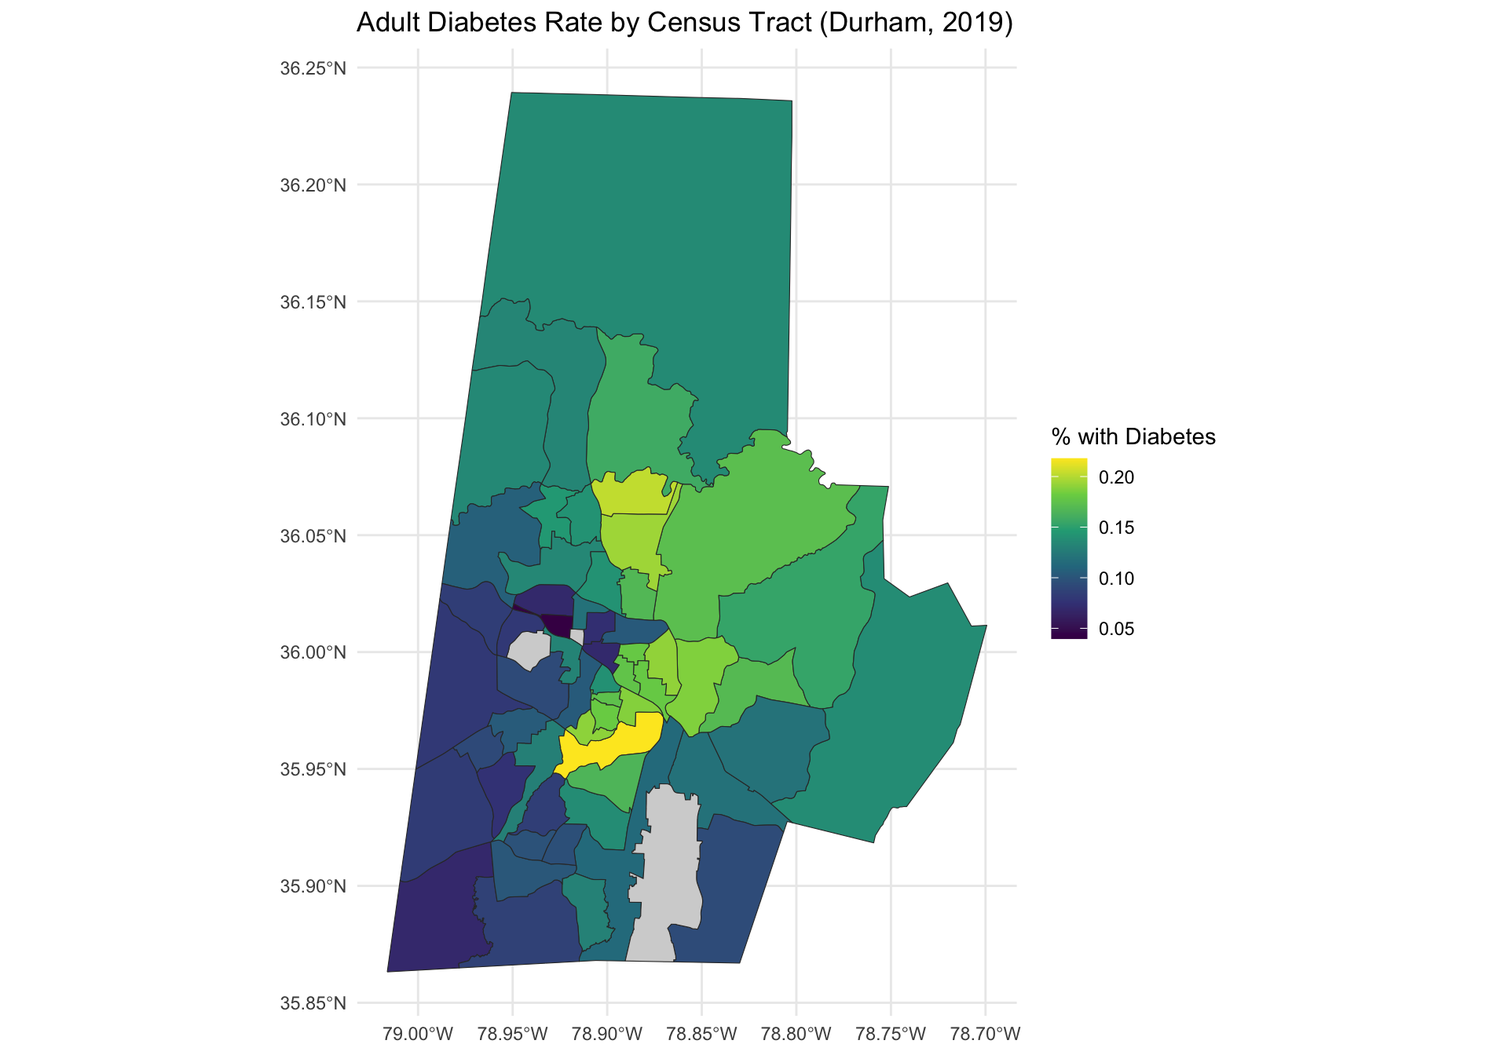
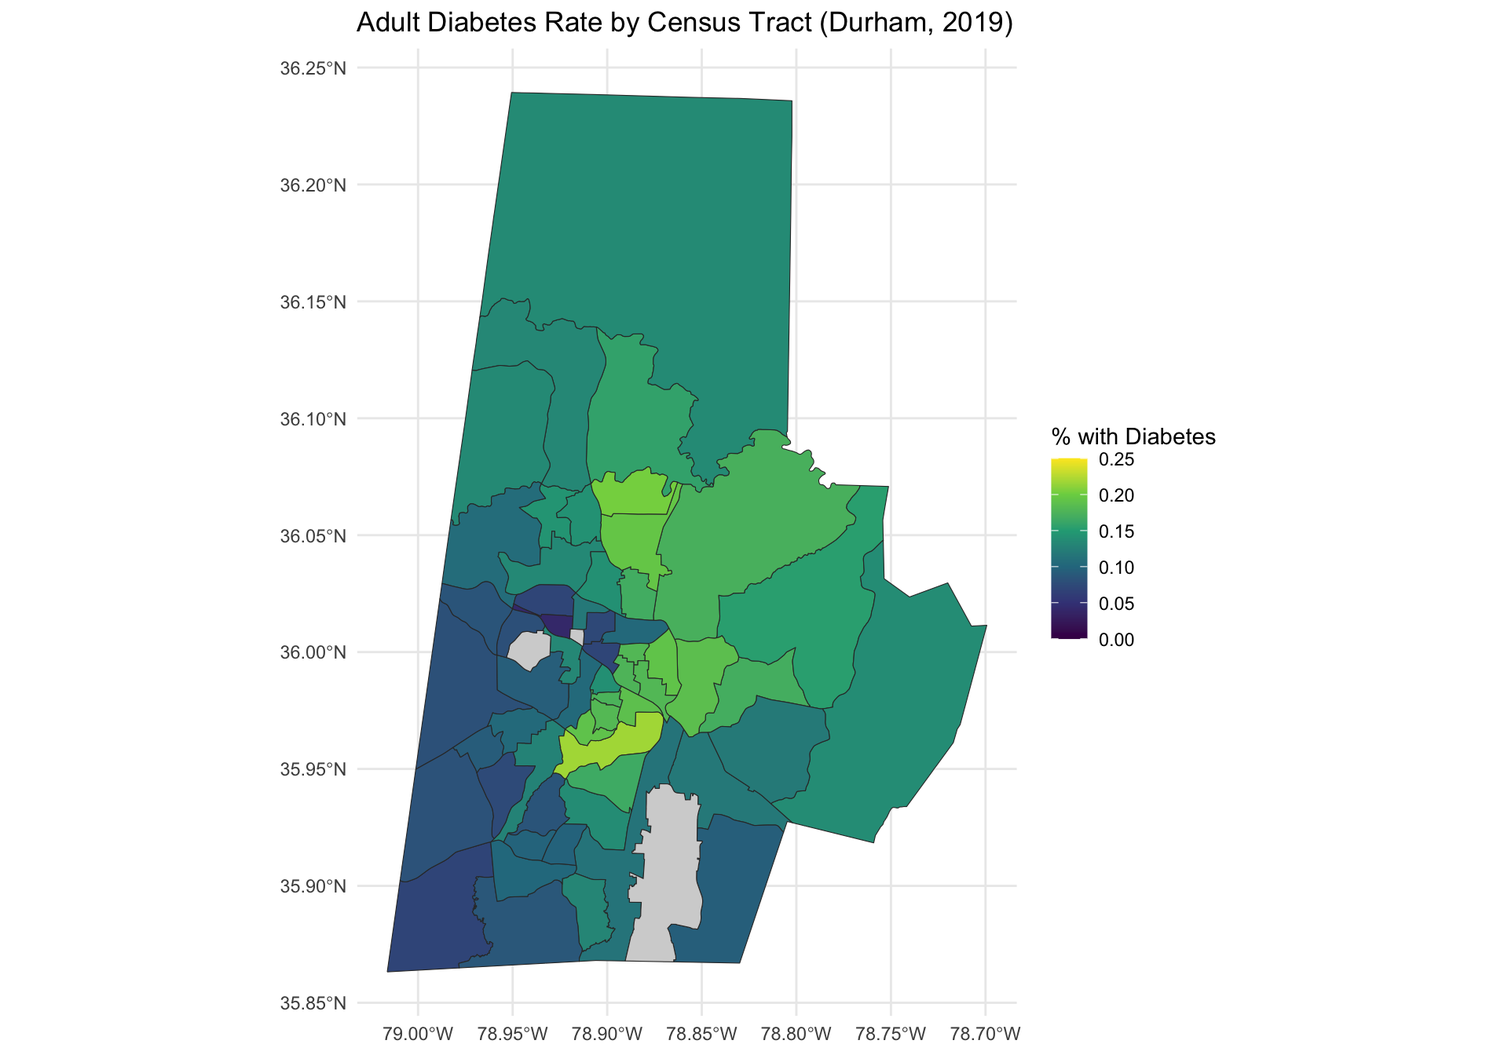
Update week 12.

diff --git a/_site/ae/ae-08-disease-mapping.html b/_site/ae/ae-08-disease-mapping.html
@@ -439,8 +439,8 @@ Due date
 </div>
 <div class="cell">
 <div class="cell-output-display">
-<div class="datatables html-widget html-fill-item" id="htmlwidget-ddece5eec6eb8c8a91e0" style="width:100%;height:auto;"></div>
-<script type="application/json" data-for="htmlwidget-ddece5eec6eb8c8a91e0">{"x":{"filter":"none","vertical":false,"data":[["1","2","3","4","5","6","7","8","9","10","11","12","13","14","15","16","17","18","19","20","21","22","23","24","25","26","27","28","29","30","31","32","33","34","35","36","37","38","39","40","41","42","43","44","45","46","47","48","49","50","51","52","53","54","55","56","57","58","59","60"],[37063000101,37063000102,37063000200,37063000301,37063000302,37063000401,37063000402,37063000500,37063000600,37063000700,37063000900,37063001001,37063001002,37063001100,37063001301,37063001303,37063001304,37063001400,37063001501,37063001502,37063001503,37063001705,37063001708,37063001709,37063001710,37063001711,37063001801,37063001802,37063001807,37063002007,37063002008,37063002009,37063002015,37063002016,37063002025,37063002026,37063002200,37063002300,37063001706,37063001601,37063001603,37063001604,37063001707,37063001806,37063001808,37063001809,37063001900,37063002013,37063002017,37063002018,37063002019,37063002020,37063002021,37063002022,37063002023,37063002024,37063002027,37063002028,37063002100,37063980100],[0.168083,0.141132,0.1036488,0.1192842,0.0730088,0.0694748,0.0397281,0.1322701,0.09281,0.1041758,0.1798245,0.1800327,0.1914432,0.176569,0.1747285,0.1811873,0.1903376,0.1884159,null,0.0796847,null,0.1339434,0.2031454,0.1945882,0.1418118,0.1450304,0.1726043,0.1873265,0.1697541,0.1287037,0.07509680000000001,0.2178403,0.104375,0.09238929999999999,0.137931,0.165605,0.0696594,0.1400329,0.0841539,0.1579848,0.1328208,0.1345944,0.1071763,0.1535473,0.1198743,0.1189024,0.1378496,0.1302536,0.08026419999999999,0.08208790000000001,0.0690038,0.0870899,0.101844,0.096637,0.0982306,0.08458550000000001,0.1141621,0.0935711,0.1361502,null],[0.3406926,0.3206574,0.4855397,0.4633182,0.7411629999999999,0.6812385999999999,0.8128587,0.3769676,0.5481034,0.7021978,0.1190253,0.1407376,0.0642504,0.1886341,0.1625441,0.2869166,0.1872717,0.1265527,0.574468,0.4808988,0.8235294000000001,0.4646575,0.3817577,0.193051,0.3267587,0.2585218,0.2549221,0.1166666,0.3415258999999999,0.8116298000000001,0.8560673,0.2054671,0.3854196,0.3667605,0.592005,0.3942265,0.6841801,0.2831439,0.7502074000000001,0.4006437,0.4224204,0.5729643,0.6456664000000001,0.3048198,0.569737,0.4074895,0.5310764,0.5373261,0.7434917,0.7061031,0.7700933999999999,0.7557383,0.771622,0.636813,0.623304,0.7975147,0.4821499,0.5784869,0.2789276,null],[5.6,6.8,12.35,10.5,12.4,10.6,12.45,10.65,12.6,11.4,9.6,8.6,5.7,10.2,6,7,5.7,5.5,16,10.7,8.800000000000001,7.6,5.7,6.65,6,6.05,5.75,5,6.4,9.300000000000001,15.1,5.2,7.5,8.85,7.6,6.9,18.95,12.9,10.4,7,7.3,9.1,11.2,7,9.5,9.800000000000001,9.5,8.199999999999999,13,10.8,11.1,12.3,9.4,9.1,11.7,8,9.1,9.4,10.2,null],[0.6663492,0.6173814,0.4926712,0.546409,0.3589945,0.165862,0.2122379,0.7096204,0.4700218000000001,0.3139598,0.8631578000000001,0.8742579,0.9212611000000001,0.8259502999999999,0.9667149,0.8722709999999999,0.9788918,0.984564,0.5358724,0.7646761,0.5257672,0.3764356,0.8305052000000001,0.8930212000000001,0.724152,0.7567749,0.734161,0.9272257,0.7883800999999999,0.3623069,0.1642228,0.976247,0.6062747000000001,0.6957013000000001,0.6747702,0.8675986,0.4175035,0.8291488,0.4587483000000001,0.4778554,0.3244984,0.2269236,0.1796753,0.6460355,0.599212,0.5940164,0.2419646,0.4676212,0.2494778,0.417023,0.2401263,0.375957,0.5292882,0.5530192,0.4222695,0.3078132,0.6373615,0.5956277999999999,0.3822826,null]],"container":"<table class=\"display\">\n  <thead>\n    <tr>\n      <th> <\/th>\n      <th>GEOID<\/th>\n      <th>diabetes<\/th>\n      <th>education<\/th>\n      <th>income<\/th>\n      <th>color<\/th>\n    <\/tr>\n  <\/thead>\n<\/table>","options":{"columnDefs":[{"className":"dt-right","targets":[1,2,3,4,5]},{"orderable":false,"targets":0},{"name":" ","targets":0},{"name":"GEOID","targets":1},{"name":"diabetes","targets":2},{"name":"education","targets":3},{"name":"income","targets":4},{"name":"color","targets":5}],"order":[],"autoWidth":false,"orderClasses":false}},"evals":[],"jsHooks":[]}</script>
+<div class="datatables html-widget html-fill-item" id="htmlwidget-c05f4d40cf2721e5a116" style="width:100%;height:auto;"></div>
+<script type="application/json" data-for="htmlwidget-c05f4d40cf2721e5a116">{"x":{"filter":"none","vertical":false,"data":[["1","2","3","4","5","6","7","8","9","10","11","12","13","14","15","16","17","18","19","20","21","22","23","24","25","26","27","28","29","30","31","32","33","34","35","36","37","38","39","40","41","42","43","44","45","46","47","48","49","50","51","52","53","54","55","56","57","58","59","60"],[37063000101,37063000102,37063000200,37063000301,37063000302,37063000401,37063000402,37063000500,37063000600,37063000700,37063000900,37063001001,37063001002,37063001100,37063001301,37063001303,37063001304,37063001400,37063001501,37063001502,37063001503,37063001705,37063001708,37063001709,37063001710,37063001711,37063001801,37063001802,37063001807,37063002007,37063002008,37063002009,37063002015,37063002016,37063002025,37063002026,37063002200,37063002300,37063001706,37063001601,37063001603,37063001604,37063001707,37063001806,37063001808,37063001809,37063001900,37063002013,37063002017,37063002018,37063002019,37063002020,37063002021,37063002022,37063002023,37063002024,37063002027,37063002028,37063002100,37063980100],[0.168083,0.141132,0.1036488,0.1192842,0.0730088,0.0694748,0.0397281,0.1322701,0.09281,0.1041758,0.1798245,0.1800327,0.1914432,0.176569,0.1747285,0.1811873,0.1903376,0.1884159,null,0.0796847,null,0.1339434,0.2031454,0.1945882,0.1418118,0.1450304,0.1726043,0.1873265,0.1697541,0.1287037,0.07509680000000001,0.2178403,0.104375,0.09238929999999999,0.137931,0.165605,0.0696594,0.1400329,0.0841539,0.1579848,0.1328208,0.1345944,0.1071763,0.1535473,0.1198743,0.1189024,0.1378496,0.1302536,0.08026419999999999,0.08208790000000001,0.0690038,0.0870899,0.101844,0.096637,0.0982306,0.08458550000000001,0.1141621,0.0935711,0.1361502,null],[0.3406926,0.3206574,0.4855397,0.4633182,0.7411629999999999,0.6812385999999999,0.8128587,0.3769676,0.5481034,0.7021978,0.1190253,0.1407376,0.0642504,0.1886341,0.1625441,0.2869166,0.1872717,0.1265527,0.574468,0.4808988,0.8235294000000001,0.4646575,0.3817577,0.193051,0.3267587,0.2585218,0.2549221,0.1166666,0.3415258999999999,0.8116298000000001,0.8560673,0.2054671,0.3854196,0.3667605,0.592005,0.3942265,0.6841801,0.2831439,0.7502074000000001,0.4006437,0.4224204,0.5729643,0.6456664000000001,0.3048198,0.569737,0.4074895,0.5310764,0.5373261,0.7434917,0.7061031,0.7700933999999999,0.7557383,0.771622,0.636813,0.623304,0.7975147,0.4821499,0.5784869,0.2789276,null],[5.6,6.8,12.35,10.5,12.4,10.6,12.45,10.65,12.6,11.4,9.6,8.6,5.7,10.2,6,7,5.7,5.5,16,10.7,8.800000000000001,7.6,5.7,6.65,6,6.05,5.75,5,6.4,9.300000000000001,15.1,5.2,7.5,8.85,7.6,6.9,18.95,12.9,10.4,7,7.3,9.1,11.2,7,9.5,9.800000000000001,9.5,8.199999999999999,13,10.8,11.1,12.3,9.4,9.1,11.7,8,9.1,9.4,10.2,null],[0.6663492,0.6173814,0.4926712,0.546409,0.3589945,0.165862,0.2122379,0.7096204,0.4700218000000001,0.3139598,0.8631578000000001,0.8742579,0.9212611000000001,0.8259502999999999,0.9667149,0.8722709999999999,0.9788918,0.984564,0.5358724,0.7646761,0.5257672,0.3764356,0.8305052000000001,0.8930212000000001,0.724152,0.7567749,0.734161,0.9272257,0.7883800999999999,0.3623069,0.1642228,0.976247,0.6062747000000001,0.6957013000000001,0.6747702,0.8675986,0.4175035,0.8291488,0.4587483000000001,0.4778554,0.3244984,0.2269236,0.1796753,0.6460355,0.599212,0.5940164,0.2419646,0.4676212,0.2494778,0.417023,0.2401263,0.375957,0.5292882,0.5530192,0.4222695,0.3078132,0.6373615,0.5956277999999999,0.3822826,null]],"container":"<table class=\"display\">\n  <thead>\n    <tr>\n      <th> <\/th>\n      <th>GEOID<\/th>\n      <th>diabetes<\/th>\n      <th>education<\/th>\n      <th>income<\/th>\n      <th>color<\/th>\n    <\/tr>\n  <\/thead>\n<\/table>","options":{"columnDefs":[{"className":"dt-right","targets":[1,2,3,4,5]},{"orderable":false,"targets":0},{"name":" ","targets":0},{"name":"GEOID","targets":1},{"name":"diabetes","targets":2},{"name":"education","targets":3},{"name":"income","targets":4},{"name":"color","targets":5}],"order":[],"autoWidth":false,"orderClasses":false}},"evals":[],"jsHooks":[]}</script>
 </div>
 </div>
 </section>
@@ -470,7 +470,7 @@ Due date
 <span id="cb5-5"><a href="#cb5-5" aria-hidden="true" tabindex="-1"></a>       <span class="at">fill =</span> <span class="st">"% with Diabetes"</span>) <span class="sc">+</span></span>
 <span id="cb5-6"><a href="#cb5-6" aria-hidden="true" tabindex="-1"></a>  <span class="fu">scale_fill_viridis_c</span>() <span class="sc">+</span> </span>
 <span id="cb5-7"><a href="#cb5-7" aria-hidden="true" tabindex="-1"></a>  <span class="fu">theme_minimal</span>()</span></code><button title="Copy to Clipboard" class="code-copy-button"><i class="bi"></i></button></pre></div>
-<div class="cell quarto-layout-panel" data-layout-align="center" data-layout-ncol="1">
+<div class="cell quarto-layout-panel" data-layout-ncol="1" data-layout-align="center">
 <div class="quarto-layout-row">
 <div class="quarto-layout-cell" style="flex-basis: 100.0%;justify-content: center;">
 <div class="quarto-figure quarto-figure-center">
@@ -533,7 +533,7 @@ Y_i &amp;= \alpha + \mathbf{x}_i\boldsymbol{\beta} + \theta_i + \epsilon_i, \qua
 <span id="cb10-10"><a href="#cb10-10" aria-hidden="true" tabindex="-1"></a>  <span class="fu">labs</span>(<span class="at">x =</span> <span class="st">"Longitude"</span>, <span class="at">y =</span> <span class="st">"Latitude"</span>) <span class="sc">+</span></span>
 <span id="cb10-11"><a href="#cb10-11" aria-hidden="true" tabindex="-1"></a>  <span class="fu">ggtitle</span>(<span class="st">"Census Tract Adjacency Map"</span>) <span class="sc">+</span> </span>
 <span id="cb10-12"><a href="#cb10-12" aria-hidden="true" tabindex="-1"></a>  <span class="fu">theme</span>(<span class="at">axis.text.x =</span> <span class="fu">element_text</span>(<span class="at">angle =</span> <span class="dv">45</span>, <span class="at">hjust =</span> <span class="dv">1</span>))</span></code><button title="Copy to Clipboard" class="code-copy-button"><i class="bi"></i></button></pre></div>
-<div class="cell quarto-layout-panel" data-layout-align="center" data-layout-ncol="1">
+<div class="cell quarto-layout-panel" data-layout-ncol="1" data-layout-align="center">
 <div class="quarto-layout-row">
 <div class="quarto-layout-cell" style="flex-basis: 100.0%;justify-content: center;">
 <div class="quarto-figure quarto-figure-center">
@@ -631,41 +631,46 @@ convergence, Rhat=1).</code></pre>
 <div class="sourceCode cell-code" id="cb19"><pre class="sourceCode r code-with-copy"><code class="sourceCode r"><span id="cb19-1"><a href="#cb19-1" aria-hidden="true" tabindex="-1"></a>durham_plot_data <span class="ot">&lt;-</span> durham_merged <span class="sc">%&gt;%</span></span>
 <span id="cb19-2"><a href="#cb19-2" aria-hidden="true" tabindex="-1"></a>  <span class="fu">left_join</span>(predictions, <span class="at">by =</span> <span class="st">"GEOID"</span>)</span></code><button title="Copy to Clipboard" class="code-copy-button"><i class="bi"></i></button></pre></div>
 </div>
-<p>The code to create a map of the observed diabetes proportion and the posterior mean are below.</p>
-<div class="sourceCode cell-code" id="cb20"><pre class="sourceCode r code-with-copy"><code class="sourceCode r"><span id="cb20-1"><a href="#cb20-1" aria-hidden="true" tabindex="-1"></a><span class="fu">ggplot</span>(durham_merged) <span class="sc">+</span></span>
-<span id="cb20-2"><a href="#cb20-2" aria-hidden="true" tabindex="-1"></a>  <span class="fu">geom_sf</span>(<span class="fu">aes</span>(<span class="at">fill =</span> diabetes), <span class="at">color =</span> <span class="st">"gray20"</span>) <span class="sc">+</span></span>
-<span id="cb20-3"><a href="#cb20-3" aria-hidden="true" tabindex="-1"></a>  <span class="fu">scale_fill_viridis_c</span>(<span class="at">option =</span> <span class="st">"plasma"</span>, <span class="at">na.value =</span> <span class="st">"lightgray"</span>) <span class="sc">+</span></span>
-<span id="cb20-4"><a href="#cb20-4" aria-hidden="true" tabindex="-1"></a>  <span class="fu">labs</span>(<span class="at">title =</span> <span class="st">"Adult Diabetes Rate by Census Tract (Durham, 2019)"</span>,</span>
-<span id="cb20-5"><a href="#cb20-5" aria-hidden="true" tabindex="-1"></a>       <span class="at">fill =</span> <span class="st">"% with Diabetes"</span>) <span class="sc">+</span></span>
-<span id="cb20-6"><a href="#cb20-6" aria-hidden="true" tabindex="-1"></a>  <span class="fu">scale_fill_viridis_c</span>(</span>
-<span id="cb20-7"><a href="#cb20-7" aria-hidden="true" tabindex="-1"></a>    <span class="co"># limits = c(0, 25),</span></span>
-<span id="cb20-8"><a href="#cb20-8" aria-hidden="true" tabindex="-1"></a>    <span class="at">na.value =</span> <span class="st">"lightgray"</span>  <span class="co"># Gray out missing tracts</span></span>
-<span id="cb20-9"><a href="#cb20-9" aria-hidden="true" tabindex="-1"></a>  ) <span class="sc">+</span> </span>
-<span id="cb20-10"><a href="#cb20-10" aria-hidden="true" tabindex="-1"></a>  <span class="fu">theme_minimal</span>()</span>
-<span id="cb20-11"><a href="#cb20-11" aria-hidden="true" tabindex="-1"></a><span class="fu">ggplot</span>(durham_plot_data) <span class="sc">+</span></span>
-<span id="cb20-12"><a href="#cb20-12" aria-hidden="true" tabindex="-1"></a>  <span class="fu">geom_sf</span>(<span class="fu">aes</span>(<span class="at">fill =</span> ppd_mean), <span class="at">color =</span> <span class="st">"black"</span>) <span class="sc">+</span></span>
-<span id="cb20-13"><a href="#cb20-13" aria-hidden="true" tabindex="-1"></a>  <span class="fu">scale_fill_viridis_c</span>(</span>
-<span id="cb20-14"><a href="#cb20-14" aria-hidden="true" tabindex="-1"></a>    <span class="co"># limits = c(0, 25),</span></span>
-<span id="cb20-15"><a href="#cb20-15" aria-hidden="true" tabindex="-1"></a>    <span class="at">na.value =</span> <span class="st">"lightgray"</span>  <span class="co"># Gray out missing tracts</span></span>
-<span id="cb20-16"><a href="#cb20-16" aria-hidden="true" tabindex="-1"></a>  ) <span class="sc">+</span></span>
-<span id="cb20-17"><a href="#cb20-17" aria-hidden="true" tabindex="-1"></a>  <span class="fu">labs</span>(</span>
-<span id="cb20-18"><a href="#cb20-18" aria-hidden="true" tabindex="-1"></a>    <span class="at">title =</span> <span class="st">"Predicted Diabetes Rate by Census Tract (ICAR Model)"</span>,</span>
-<span id="cb20-19"><a href="#cb20-19" aria-hidden="true" tabindex="-1"></a>    <span class="at">fill =</span> <span class="st">"Predicted %"</span></span>
-<span id="cb20-20"><a href="#cb20-20" aria-hidden="true" tabindex="-1"></a>  ) <span class="sc">+</span></span>
-<span id="cb20-21"><a href="#cb20-21" aria-hidden="true" tabindex="-1"></a>  <span class="fu">theme_minimal</span>()</span></code><button title="Copy to Clipboard" class="code-copy-button"><i class="bi"></i></button></pre></div>
-<div class="cell quarto-layout-panel" data-layout-align="center" data-layout-ncol="2">
+<p>The code to create a map of the observed diabetes proportion and the posterior mean is below. Note that I make sure to have each plot be on the same color scale, so they are comparable. I first compute the maximum value needed for the upper bound and then use the <code>limits</code> functions.</p>
+<div class="cell">
+<div class="sourceCode cell-code" id="cb20"><pre class="sourceCode r code-with-copy"><code class="sourceCode r"><span id="cb20-1"><a href="#cb20-1" aria-hidden="true" tabindex="-1"></a>max_limit <span class="ot">&lt;-</span> <span class="fu">max</span>(<span class="fu">c</span>(durham_merged<span class="sc">$</span>diabetes,</span>
+<span id="cb20-2"><a href="#cb20-2" aria-hidden="true" tabindex="-1"></a>                   durham_plot_data<span class="sc">$</span>ppd_mean), <span class="at">na.rm =</span> <span class="cn">TRUE</span>)</span></code><button title="Copy to Clipboard" class="code-copy-button"><i class="bi"></i></button></pre></div>
+</div>
+<p>The maps can be created as follows.</p>
+<div class="sourceCode cell-code" id="cb21"><pre class="sourceCode r code-with-copy"><code class="sourceCode r"><span id="cb21-1"><a href="#cb21-1" aria-hidden="true" tabindex="-1"></a><span class="fu">ggplot</span>(durham_merged) <span class="sc">+</span></span>
+<span id="cb21-2"><a href="#cb21-2" aria-hidden="true" tabindex="-1"></a>  <span class="fu">geom_sf</span>(<span class="fu">aes</span>(<span class="at">fill =</span> diabetes), <span class="at">color =</span> <span class="st">"gray20"</span>) <span class="sc">+</span></span>
+<span id="cb21-3"><a href="#cb21-3" aria-hidden="true" tabindex="-1"></a>  <span class="fu">scale_fill_viridis_c</span>(<span class="at">option =</span> <span class="st">"plasma"</span>, <span class="at">na.value =</span> <span class="st">"lightgray"</span>) <span class="sc">+</span></span>
+<span id="cb21-4"><a href="#cb21-4" aria-hidden="true" tabindex="-1"></a>  <span class="fu">labs</span>(<span class="at">title =</span> <span class="st">"Adult Diabetes Rate by Census Tract (Durham, 2019)"</span>,</span>
+<span id="cb21-5"><a href="#cb21-5" aria-hidden="true" tabindex="-1"></a>       <span class="at">fill =</span> <span class="st">"% with Diabetes"</span>) <span class="sc">+</span></span>
+<span id="cb21-6"><a href="#cb21-6" aria-hidden="true" tabindex="-1"></a>  <span class="fu">scale_fill_viridis_c</span>(</span>
+<span id="cb21-7"><a href="#cb21-7" aria-hidden="true" tabindex="-1"></a>    <span class="at">limits =</span> <span class="fu">c</span>(<span class="dv">0</span>, max_limit),</span>
+<span id="cb21-8"><a href="#cb21-8" aria-hidden="true" tabindex="-1"></a>    <span class="at">na.value =</span> <span class="st">"lightgray"</span>  <span class="co"># Gray out missing tracts</span></span>
+<span id="cb21-9"><a href="#cb21-9" aria-hidden="true" tabindex="-1"></a>  ) <span class="sc">+</span> </span>
+<span id="cb21-10"><a href="#cb21-10" aria-hidden="true" tabindex="-1"></a>  <span class="fu">theme_minimal</span>()</span>
+<span id="cb21-11"><a href="#cb21-11" aria-hidden="true" tabindex="-1"></a><span class="fu">ggplot</span>(durham_plot_data) <span class="sc">+</span></span>
+<span id="cb21-12"><a href="#cb21-12" aria-hidden="true" tabindex="-1"></a>  <span class="fu">geom_sf</span>(<span class="fu">aes</span>(<span class="at">fill =</span> ppd_mean), <span class="at">color =</span> <span class="st">"black"</span>) <span class="sc">+</span></span>
+<span id="cb21-13"><a href="#cb21-13" aria-hidden="true" tabindex="-1"></a>  <span class="fu">scale_fill_viridis_c</span>(</span>
+<span id="cb21-14"><a href="#cb21-14" aria-hidden="true" tabindex="-1"></a>    <span class="at">limits =</span> <span class="fu">c</span>(<span class="dv">0</span>, max_limit),</span>
+<span id="cb21-15"><a href="#cb21-15" aria-hidden="true" tabindex="-1"></a>    <span class="at">na.value =</span> <span class="st">"lightgray"</span>  <span class="co"># Gray out missing tracts</span></span>
+<span id="cb21-16"><a href="#cb21-16" aria-hidden="true" tabindex="-1"></a>  ) <span class="sc">+</span></span>
+<span id="cb21-17"><a href="#cb21-17" aria-hidden="true" tabindex="-1"></a>  <span class="fu">labs</span>(</span>
+<span id="cb21-18"><a href="#cb21-18" aria-hidden="true" tabindex="-1"></a>    <span class="at">title =</span> <span class="st">"Predicted Diabetes Rate by Census Tract (ICAR Model)"</span>,</span>
+<span id="cb21-19"><a href="#cb21-19" aria-hidden="true" tabindex="-1"></a>    <span class="at">fill =</span> <span class="st">"Predicted %"</span></span>
+<span id="cb21-20"><a href="#cb21-20" aria-hidden="true" tabindex="-1"></a>  ) <span class="sc">+</span></span>
+<span id="cb21-21"><a href="#cb21-21" aria-hidden="true" tabindex="-1"></a>  <span class="fu">theme_minimal</span>()</span></code><button title="Copy to Clipboard" class="code-copy-button"><i class="bi"></i></button></pre></div>
+<div class="cell quarto-layout-panel" data-layout-ncol="2" data-layout-align="center">
 <div class="quarto-layout-row">
 <div class="quarto-layout-cell" style="flex-basis: 50.0%;justify-content: center;">
 <div class="quarto-figure quarto-figure-center">
 <figure class="figure">
-<p><img src="ae-08-disease-mapping_files/figure-html/unnamed-chunk-22-1.png" class="img-fluid quarto-figure quarto-figure-center figure-img" width="960"></p>
+<p><img src="ae-08-disease-mapping_files/figure-html/unnamed-chunk-23-1.png" class="img-fluid quarto-figure quarto-figure-center figure-img" width="960"></p>
 </figure>
 </div>
 </div>
 <div class="quarto-layout-cell" style="flex-basis: 50.0%;justify-content: center;">
 <div class="quarto-figure quarto-figure-center">
 <figure class="figure">
-<p><img src="ae-08-disease-mapping_files/figure-html/unnamed-chunk-22-2.png" class="img-fluid quarto-figure quarto-figure-center figure-img" width="960"></p>
+<p><img src="ae-08-disease-mapping_files/figure-html/unnamed-chunk-23-2.png" class="img-fluid quarto-figure quarto-figure-center figure-img" width="960"></p>
 </figure>
 </div>
 </div>
@@ -680,7 +685,7 @@ convergence, Rhat=1).</code></pre>
 <p>Examine the two side-by-side plots above and compare and contrast them. What changes to do you observe?</p>
 <p><strong>Answer:</strong></p>
 <div class="cell">
-<div class="sourceCode cell-code" id="cb21"><pre class="sourceCode r code-with-copy"><code class="sourceCode r"><span id="cb21-1"><a href="#cb21-1" aria-hidden="true" tabindex="-1"></a><span class="co"># add code here</span></span></code><button title="Copy to Clipboard" class="code-copy-button"><i class="bi"></i></button></pre></div>
+<div class="sourceCode cell-code" id="cb22"><pre class="sourceCode r code-with-copy"><code class="sourceCode r"><span id="cb22-1"><a href="#cb22-1" aria-hidden="true" tabindex="-1"></a><span class="co"># add code here</span></span></code><button title="Copy to Clipboard" class="code-copy-button"><i class="bi"></i></button></pre></div>
 </div>
 </section>
 <section id="exercise-2" class="level2">
@@ -688,7 +693,7 @@ convergence, Rhat=1).</code></pre>
 <p>Create a map of the posterior predictive standard deviation across the Durham census tracts. What patterns do you observe?</p>
 <p><strong>Answer:</strong></p>
 <div class="cell">
-<div class="sourceCode cell-code" id="cb22"><pre class="sourceCode r code-with-copy"><code class="sourceCode r"><span id="cb22-1"><a href="#cb22-1" aria-hidden="true" tabindex="-1"></a><span class="co"># add code here</span></span></code><button title="Copy to Clipboard" class="code-copy-button"><i class="bi"></i></button></pre></div>
+<div class="sourceCode cell-code" id="cb23"><pre class="sourceCode r code-with-copy"><code class="sourceCode r"><span id="cb23-1"><a href="#cb23-1" aria-hidden="true" tabindex="-1"></a><span class="co"># add code here</span></span></code><button title="Copy to Clipboard" class="code-copy-button"><i class="bi"></i></button></pre></div>
 </div>
 </section>
 <section id="exercise-3" class="level2">
@@ -696,7 +701,7 @@ convergence, Rhat=1).</code></pre>
 <p>Present posterior summaries of <span class="math inline">\(\boldsymbol{\beta}\)</span>. Which predictors are associated with adult diabetes?</p>
 <p><strong>Answer:</strong></p>
 <div class="cell">
-<div class="sourceCode cell-code" id="cb23"><pre class="sourceCode r code-with-copy"><code class="sourceCode r"><span id="cb23-1"><a href="#cb23-1" aria-hidden="true" tabindex="-1"></a><span class="co"># add code here</span></span></code><button title="Copy to Clipboard" class="code-copy-button"><i class="bi"></i></button></pre></div>
+<div class="sourceCode cell-code" id="cb24"><pre class="sourceCode r code-with-copy"><code class="sourceCode r"><span id="cb24-1"><a href="#cb24-1" aria-hidden="true" tabindex="-1"></a><span class="co"># add code here</span></span></code><button title="Copy to Clipboard" class="code-copy-button"><i class="bi"></i></button></pre></div>
 </div>
 <div class="callout callout-style-default callout-important callout-titled">
 <div class="callout-header d-flex align-content-center">
